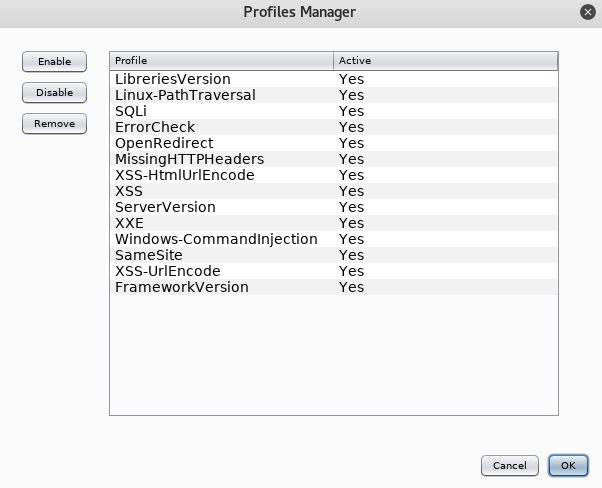
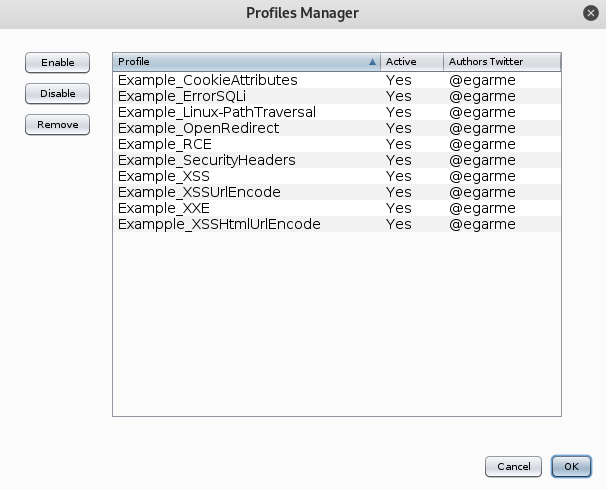
Version 2.3 initial release

diff --git a/src/ProfilesManager.java b/src/ProfilesManager.java
@@ -30,6 +30,11 @@ import java.util.List;
 import javax.swing.table.DefaultTableModel;
 import java.io.File;
 import java.io.FilenameFilter;
+import java.util.ArrayList;
+import javax.swing.RowSorter;
+import javax.swing.SortOrder;
+import javax.swing.table.TableModel;
+import javax.swing.table.TableRowSorter;
 
 /**
  *
@@ -56,16 +61,12 @@ public class ProfilesManager extends javax.swing.JPanel {
         showProfiles(this.BBG);
     }
     
-    
-    
-    public void setDisableProfile(BurpBountyGui bbg){ 
+
+    public void setEnableDisableProfile(BurpBountyGui bbg, String enable){ 
         
         Gson gson = new Gson();
         File f = new File(bbg.filename);
-        
-        
-        
-        
+
         JsonArray json2 = new JsonArray();
         List<Issue> newjson = gson.fromJson(json2, new TypeToken<List<Issue>>() {}.getType());
         
@@ -83,12 +84,9 @@ public class ProfilesManager extends javax.swing.JPanel {
         
         
         int[] rows = table.getSelectedRows();
-        if(!f.exists())
-            System.out.println("No File/Dir");
-        if(f.isDirectory()){// a directory!
+        if(f.exists() && f.isDirectory()){
             for(File file :files){
                 for(Integer row: rows){
-                    //String pname = table.getModel().getValueAt(row, 0).toString();
                     try{
                         JsonArray data = new JsonArray();
                         JsonReader json = new JsonReader(new FileReader(file.getAbsolutePath()));
@@ -97,19 +95,23 @@ public class ProfilesManager extends javax.swing.JPanel {
                         
                         Object idata = data.get(0);                      
                         Issue i = gson.fromJson(idata.toString(), Issue.class);
-                        String pname = table.getModel().getValueAt(row, 0).toString();
-                        if(i.getName().equals(pname)){
-                            i.setActive(false);
-                            table.getModel().setValueAt("No", row, 1);
+                        String pname = table.getValueAt(row, 0).toString();
+                        
+                        if(pname.contains(i.getName())){
+                            if(enable.contains("Yes")){
+                                i.setActive(true);
+                                table.setValueAt("Yes", row, 1);
+                            }else{
+                                i.setActive(false);
+                                table.setValueAt("No", row, 1);
+                            }
                             newjson.clear();
                             newjson.add(i);
                             FileOutputStream fileStream = new FileOutputStream(file.getAbsoluteFile());
-                            String fjson = "";
-                            fjson = gson.toJson(newjson);
+                            String fjson = gson.toJson(newjson);
                             OutputStreamWriter writer = new OutputStreamWriter(fileStream, "UTF-8");  
                             writer.write(fjson.replace(",", ",\n"));
                             writer.close();
-                            break;
                         }
                     } catch (IOException e){
                         e.printStackTrace();
@@ -117,17 +119,45 @@ public class ProfilesManager extends javax.swing.JPanel {
                 }
             }
         }
-    }      
-            
-    public void setActiveProfiles(BurpBountyGui bbg){ 
+    }  
+    
+        
+    public void showProfiles(BurpBountyGui bbg){        
+        JsonArray json = bbg.initJson();
+        model.setNumRows(0);
+        model.setColumnCount(0);
+        model.addColumn("Profile");
+        model.addColumn("Active");
+        model.addColumn("Authors Twitter");
+       
+        table.getColumnModel().getColumn(0).setPreferredWidth(220);
+        table.getColumnModel().getColumn(1).setPreferredWidth(5);
+        table.getColumnModel().getColumn(2).setPreferredWidth(70);
+        TableRowSorter<TableModel> sorter = new TableRowSorter<>(table.getModel());
+        table.setRowSorter(sorter);
+        List<RowSorter.SortKey> sortKeys = new ArrayList<>();
+       
+        sortKeys.add(new RowSorter.SortKey(0, SortOrder.ASCENDING));
+        sorter.setSortKeys(sortKeys);
+        sorter.sort();
+        
+        if (json != null){
+            for (JsonElement pa : json) {
+                JsonObject bbObj  = pa.getAsJsonObject();
+                if(bbObj.get("Active").getAsBoolean()){
+                    model.addRow(new Object[]{bbObj.get("Name").getAsString(), "Yes", bbObj.get("Author").getAsString()});    
+                }else{
+                    model.addRow(new Object[]{bbObj.get("Name").getAsString(), "No", bbObj.get("Author").getAsString()});
+                }
+            }   
+        }
+    }
+    
+
+    public void deleteProfile(BurpBountyGui bbg){ 
         
         Gson gson = new Gson();
         File f = new File(bbg.filename);
-        
-        
-        
-        JsonArray json2 = new JsonArray();
-        List<Issue> newjson = gson.fromJson(json2, new TypeToken<List<Issue>>() {}.getType());
         
         File[] files = f.listFiles(new FilenameFilter() {
         @Override
@@ -139,14 +169,13 @@ public class ProfilesManager extends javax.swing.JPanel {
                 }
             }
         });
+                
+        
         
         int[] rows = table.getSelectedRows();
-        if(!f.exists())
-            System.out.println("No File/Dir");
-        if(f.isDirectory()){// a directory!
+        if(f.exists() && f.isDirectory()){
             for(File file :files){
                 for(Integer row: rows){
-                    //String pname = table.getModel().getValueAt(row, 0).toString();
                     try{
                         JsonArray data = new JsonArray();
                         JsonReader json = new JsonReader(new FileReader(file.getAbsolutePath()));
@@ -155,59 +184,22 @@ public class ProfilesManager extends javax.swing.JPanel {
                         
                         Object idata = data.get(0);                      
                         Issue i = gson.fromJson(idata.toString(), Issue.class);
-                        String pname = table.getModel().getValueAt(row, 0).toString();
-                        if(i.getName().equals(pname)){
-                            String fjson = "";
-                            i.setActive(true);
-                            table.getModel().setValueAt("Yes", row, 1);
-                            newjson.clear();
-                            newjson.add(i);
-                            FileOutputStream fileStream = new FileOutputStream(file.getAbsoluteFile());
-                            fjson = gson.toJson(newjson);
-                            OutputStreamWriter writer = new OutputStreamWriter(fileStream, "UTF-8");  
-                            writer.write(fjson.replace(",", ",\n"));
-                            writer.close();
-                            break;
+                        String pname = table.getValueAt(row, 0).toString();
+                        
+                        if(pname.contains(i.getName())){
+                            file.delete();
                         }
                     } catch (IOException e){
                         e.printStackTrace();
                     }
                 }
             }
-        }
-    }
+        }showProfiles(bbg);
+    }  
     
-        
-    public void showProfiles(BurpBountyGui bbg){        
-        JsonArray json = bbg.initJson();
-        model.setNumRows(0);
-        model.setColumnCount(0);
-        model.addColumn("Profile");
-        model.addColumn("Active");
-       
-        if (json != null){
-            for (JsonElement pa : json) {
-                JsonObject bbObj  = pa.getAsJsonObject();
-                if(bbObj.get("Active").getAsBoolean()){
-                    model.addRow(new Object[]{bbObj.get("Name").getAsString(), "Yes"});    
-                }else{
-                    model.addRow(new Object[]{bbObj.get("Name").getAsString(), "No"});
-                }
-            }   
-        }
-    }
     
-    public void deleteItem(BurpBountyGui bbg){
-        
-        int[] rows = table.getSelectedRows();
-        
-        for(Integer row: rows){
-            String pname = model.getValueAt(row, 0).toString();
-            File file = new File(bbg.filename+pname+".bb");
-            file.delete();
-        }
-        showProfiles(bbg);
-    }
+    
+    
     
     
     /**
@@ -228,7 +220,7 @@ public class ProfilesManager extends javax.swing.JPanel {
         button3.setText("Remove");
         button3.addActionListener(new java.awt.event.ActionListener() {
             public void actionPerformed(java.awt.event.ActionEvent evt) {
-                DeleteItem(evt);
+                RemoveEvent(evt);
             }
         });
 
@@ -284,17 +276,17 @@ public class ProfilesManager extends javax.swing.JPanel {
     }// </editor-fold>//GEN-END:initComponents
 
     private void setProfileEnable(java.awt.event.ActionEvent evt) {//GEN-FIRST:event_setProfileEnable
-        setActiveProfiles(this.BBG);
+        setEnableDisableProfile(this.BBG,"Yes");
         
     }//GEN-LAST:event_setProfileEnable
 
     private void SetDisableProfiles(java.awt.event.ActionEvent evt) {//GEN-FIRST:event_SetDisableProfiles
-        setDisableProfile(this.BBG);
+        setEnableDisableProfile(this.BBG,"No");
     }//GEN-LAST:event_SetDisableProfiles
 
-    private void DeleteItem(java.awt.event.ActionEvent evt) {//GEN-FIRST:event_DeleteItem
-        deleteItem(this.BBG);
-    }//GEN-LAST:event_DeleteItem
+    private void RemoveEvent(java.awt.event.ActionEvent evt) {//GEN-FIRST:event_RemoveEvent
+        deleteProfile(this.BBG);
+    }//GEN-LAST:event_RemoveEvent
 
 
     // Variables declaration - do not modify//GEN-BEGIN:variables

diff --git a/src/GenericScan.java b/src/GenericScan.java
@@ -70,7 +70,7 @@ public class GenericScan {
     boolean spaceencode;
     String sencode;
     int payloadposition;
-    int timeout;
+    String timeout;
     boolean istime;
     boolean isreplace;
     String replace1;
@@ -212,7 +212,7 @@ public class GenericScan {
                                 IHttpRequestResponse response = callbacks.makeHttpRequest(httpService,new BuildUnencodeRequest(helpers).buildUnencodedRequest(insertionPoint, helpers.stringToBytes(payload)));
                                 long endTime = System.currentTimeMillis();
                                 long duration = (endTime - startTime);
-                                if(duration >= timeout*1000){
+                                if(duration >= Integer.getInteger(timeout)*1000){
                                     matches = new CustomScanIssue(response.getHttpService(),helpers.analyzeRequest(response).getUrl(), 
                                               new IHttpRequestResponse[] { callbacks.applyMarkers(response, null, null) }, 
                                               "BurpBounty - "+issuename, issuedetail.replaceAll("<grep>", helpers.urlEncode(payload)) ,issueseverity,
@@ -242,7 +242,7 @@ public class GenericScan {
                                 IHttpRequestResponse response = callbacks.makeHttpRequest(httpService,new BuildUnencodeRequest(helpers).buildUnencodedRequest(insertionPoint, helpers.stringToBytes(payload)));
                                 long endTime = System.currentTimeMillis();
                                 long duration = (endTime - startTime);
-                                if(duration >= timeout*1000){
+                                if(duration >= Integer.getInteger(timeout)*1000){
                                     matches = new CustomScanIssue(response.getHttpService(),helpers.analyzeRequest(response).getUrl(), 
                                               new IHttpRequestResponse[] { callbacks.applyMarkers(response, null, null) }, 
                                               "BurpBounty - "+issuename, issuedetail.replaceAll("<grep>", helpers.urlEncode(payload)) ,issueseverity,

diff --git a/src/Issue.java b/src/Issue.java
@@ -34,7 +34,7 @@ public class Issue {
     private boolean PayloadResponse;
     private boolean NotResponse;
     private boolean NotCookie;
-    private int TimeOut;
+    private String TimeOut;
     private boolean isTime;
     private boolean CaseSensitive;
     private boolean isReplace;
@@ -77,7 +77,7 @@ public class Issue {
     
     public Issue(String name, int scanner, boolean active, List payloads, List encoder, String charstourlencode, List grep, boolean casesensitive,boolean urlencode,
             boolean payloadresponse, boolean notresponse, boolean notcookie, boolean onlyHTTP, boolean excludeHTTP, boolean iscontenttype, String contenttype,boolean negativect, 
-            boolean isresponsecode, String responsecode, boolean negativerc, int matchtype, int redirtype, boolean rcookies, boolean spaceencode, String sencode, int timeout,
+            boolean isresponsecode, String responsecode, boolean negativerc, int matchtype, int redirtype, boolean rcookies, boolean spaceencode, String sencode, String timeout,
             boolean isreplace, String replace1, String replace2, String author, boolean istime, int payloadposition, int maxredir, String payloadsfile, String grepsfile, String issuetype, String issuename, String issueseverity, String issueconfidence,
             String issuedetail,String issuebackground, String remediationdetail, String remediationbackground)
     {
@@ -248,7 +248,7 @@ public class Issue {
         return sEncode;
     }
     
-    public int getTime()
+    public String getTime()
     {
         return TimeOut;
     }
@@ -452,7 +452,7 @@ public class Issue {
         IsContentType = iscontenttype;
     }
     
-    public void setTime(int timeout)
+    public void setTime(String timeout)
     {
          TimeOut = timeout;
     }

diff --git a/src/BurpBountyGui.java b/src/BurpBountyGui.java
@@ -17,7 +17,6 @@ package burpbounty;
 
 import burp.IBurpExtenderCallbacks;
 import com.google.gson.Gson;
-import com.google.gson.GsonBuilder;
 import com.google.gson.JsonArray;
 import com.google.gson.JsonElement;
 import com.google.gson.JsonObject;
@@ -88,7 +87,7 @@ public class BurpBountyGui extends javax.swing.JPanel{
     int payloadPosition;
     String payloadsfile;
     String grepsfile;
-    int timeOut;
+    String timeOut;
     boolean isTime;
     String Author;
     boolean isReplace;
@@ -284,10 +283,10 @@ public class BurpBountyGui extends javax.swing.JPanel{
             text5.setText(charstourlencode);
             excludehttp.setSelected(excludeHTTP);
             onlyhttp.setSelected(onlyHTTP);
-            if(timeOut == 0){
+            if(timeOut.equals("0")){
                 texttime.setText("");
             }else{
-                texttime.setText(Integer.toString(timeOut));
+                texttime.setText(timeOut);
             }
             
             checktime.setSelected(isTime);
@@ -537,9 +536,9 @@ public class BurpBountyGui extends javax.swing.JPanel{
             newfile.setContentType(text71.getText());
             newfile.setResponseCode(text72.getText());
             if(texttime.getText().isEmpty()){
-                newfile.setTime(0);
+                newfile.setTime("0");
             }else{
-                newfile.setTime(Integer.parseInt(texttime.getText()));
+                newfile.setTime(texttime.getText());
             }
             newfile.setIsTime(checktime.isSelected());
             

diff --git a/README.md b/README.md
@@ -29,6 +29,10 @@ This BurpSuite extension allows you, in a quick and simple way, to improve the a
 ### Contributions and feature requests are welcome!
 
 ##  Changelog
+**2.3 20181029**
+* Improved profile manager
+* Fixed some minor problems
+
 **2.2 20181026**
 * Fixed some minor problems
 
